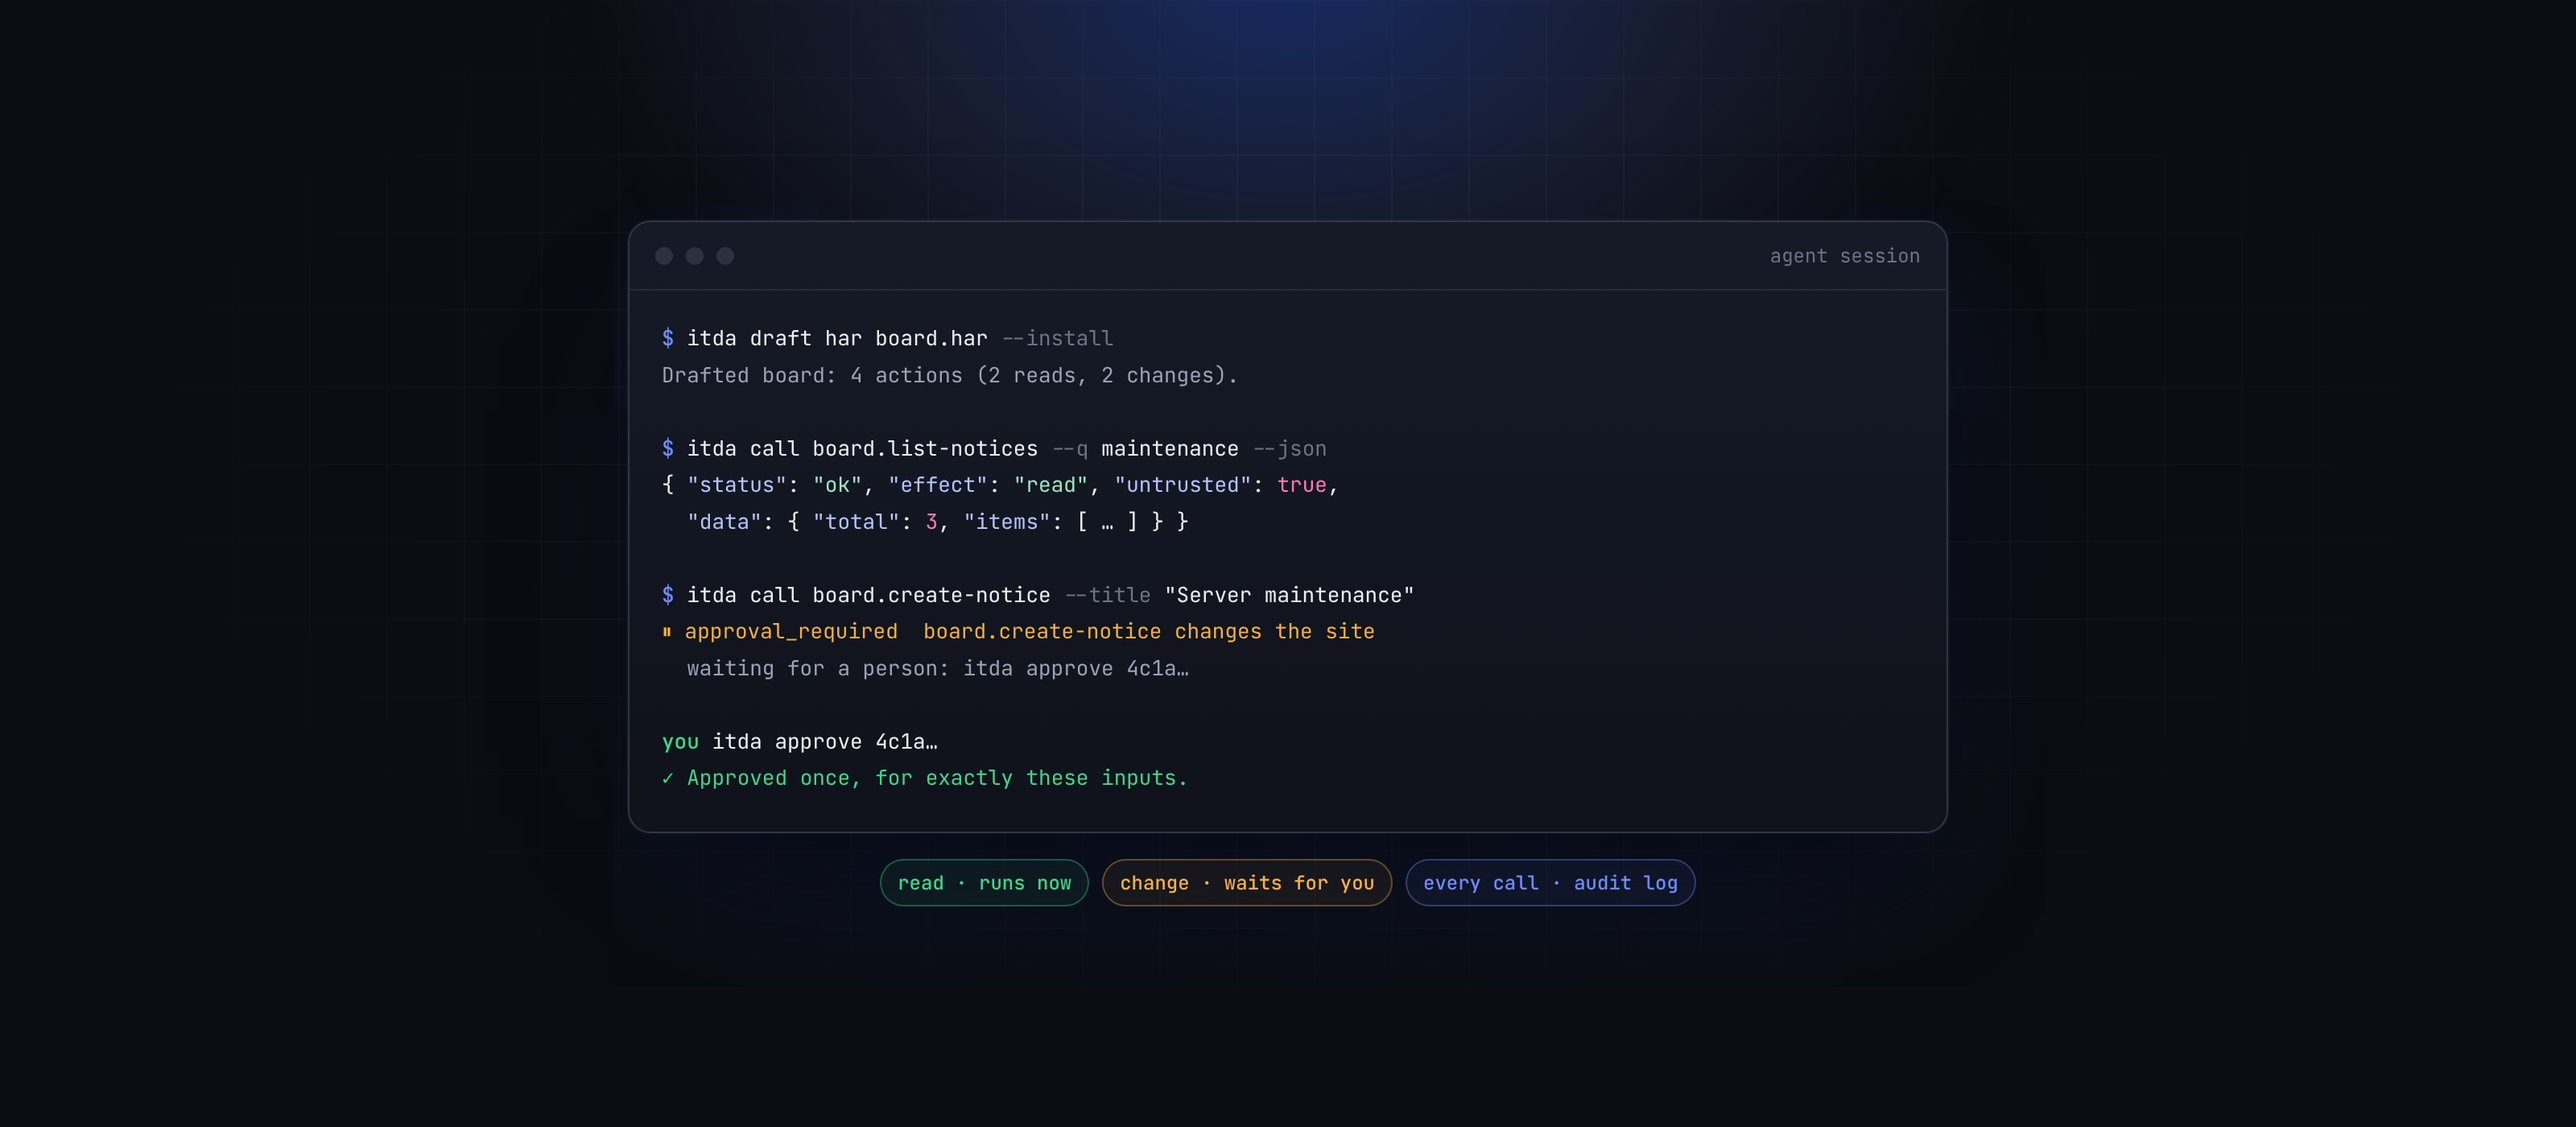
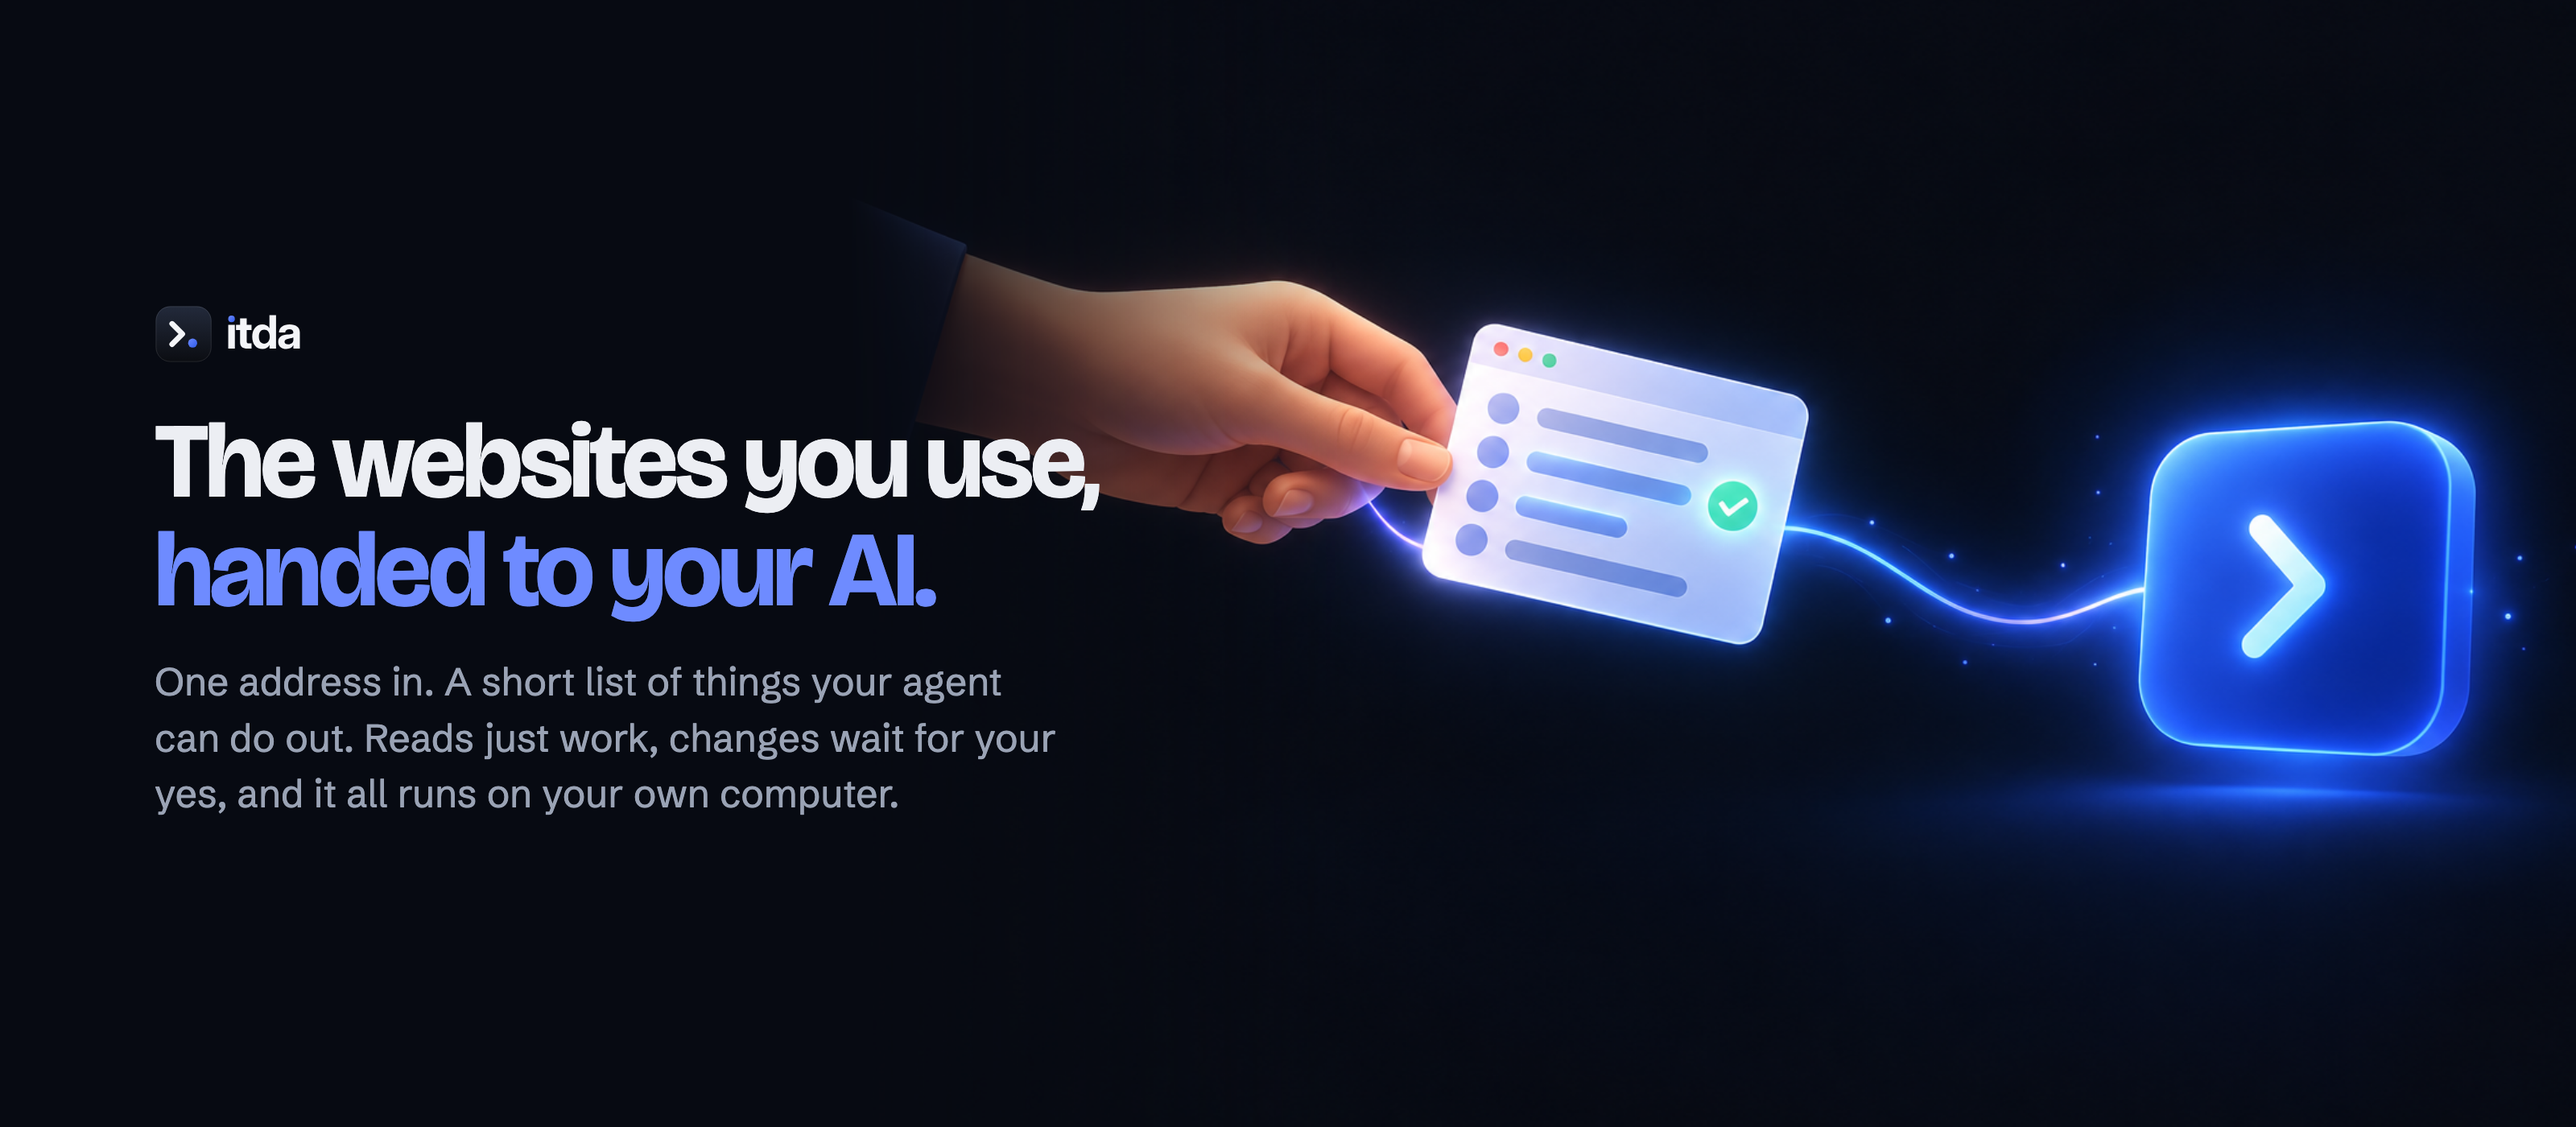
docs: open the README, the docs and the link preview with the handoff key visual

diff --git a/assets/src/banner.html b/assets/src/banner.html
@@ -1,0 +1,75 @@
+<!doctype html>
+<html lang="en">
+<head>
+<meta charset="utf-8">
+<title>itda banner</title>
+<!--
+  Renders assets/social.png, assets/hero.png and assets/hero.ko.png from
+  assets/handoff.png. From the repository root:
+
+    sh assets/src/banner.sh
+
+  ?v=social is 1280x640 (the link preview); ?v=hero is 1600x700, captured at
+  2x; &lang=ko switches the words.
+-->
+<link rel="preconnect" href="https://fonts.googleapis.com">
+<link rel="preconnect" href="https://fonts.gstatic.com" crossorigin>
+<link href="https://fonts.googleapis.com/css2?family=Bricolage+Grotesque:opsz,wght@12..96,700&family=Schibsted+Grotesk:wght@400;500&family=Noto+Sans+KR:wght@400;700&display=swap" rel="stylesheet">
+<style>
+  :root {
+    --ink: #070A12; --text: #ECEEF3; --muted: #9AA3B5; --blue-hi: #6E8BFF;
+    --display: "Bricolage Grotesque", "Noto Sans KR", sans-serif;
+    --sans: "Schibsted Grotesk", "Noto Sans KR", sans-serif;
+  }
+  html, body { margin: 0; background: var(--ink); color: var(--text); font-family: var(--sans); }
+  .frame { position: relative; width: 1280px; height: 640px; overflow: hidden; background: var(--ink); }
+  .frame.hero { width: 1600px; height: 700px; }
+  .glow {
+    position: absolute; width: 1100px; height: 700px; right: -260px; top: -200px;
+    background: radial-gradient(closest-side, rgba(47, 91, 234, .34), rgba(110, 139, 255, .10) 55%, transparent);
+    filter: blur(24px);
+  }
+  .art {
+    position: absolute; right: -70px; top: 50%; transform: translateY(-50%); height: 104%; width: auto;
+    mask-image: linear-gradient(90deg, transparent, #000 28%);
+    -webkit-mask-image: linear-gradient(90deg, transparent, #000 28%);
+  }
+  .hero .art { right: -40px; height: 106%; }
+  .copy { position: absolute; left: 72px; top: 50%; transform: translateY(-50%); width: 500px; }
+  .hero .copy { left: 96px; width: 620px; }
+  .brand { display: flex; align-items: center; gap: 12px; margin-bottom: 28px; }
+  .brand img { height: 36px; }
+  h1 {
+    margin: 0 0 18px; font: 700 56px/1.02 var(--display); letter-spacing: -.035em;
+    font-variation-settings: "opsz" 96;
+  }
+  .hero h1 { font-size: 66px; }
+  html[lang="ko"] h1 { font-size: 52px; letter-spacing: -.03em; line-height: 1.15; word-break: keep-all; }
+  html[lang="ko"] .hero h1 { font-size: 60px; }
+  h1 em { font-style: normal; color: var(--blue-hi); }
+  p { margin: 0; font: 400 21px/1.45 var(--sans); color: var(--muted); max-width: 460px; }
+  .hero p { font-size: 24px; max-width: 560px; }
+  html[lang="ko"] p { word-break: keep-all; }
+</style>
+</head>
+<body>
+<div class="frame" id="frame">
+  <div class="glow"></div>
+  <img class="art" src="../handoff.png" alt="">
+  <div class="copy">
+    <div class="brand"><img src="../wordmark-dark.svg" alt="itda"></div>
+    <h1 id="h1">The websites you use,<br><em>handed to your AI.</em></h1>
+    <p id="p">One address in. A short list of things your agent can do out. Reads just work, changes wait for your yes, and it all runs on your own computer.</p>
+  </div>
+</div>
+<script>
+  const q = new URLSearchParams(location.search);
+  if (q.get("v") === "hero") document.getElementById("frame").classList.add("hero");
+  if (q.get("lang") === "ko") {
+    document.documentElement.lang = "ko";
+    document.getElementById("h1").innerHTML = "내가 쓰는 웹사이트를<br><em>AI에게 넘겨주세요.</em>";
+    document.getElementById("p").textContent = "주소 하나를 넣으면, 에이전트가 할 수 있는 일의 짧은 목록이 나옵니다. 읽기는 알아서 되고, 변경은 내 허락을 기다리고, 전부 내 컴퓨터에서 돌아갑니다.";
+  }
+</script>
+</body>
+</html>

diff --git a/docs/introduction.md b/docs/introduction.md
@@ -1,45 +1,55 @@
 # itda
 
-**Don't drive the browser. Compile the site.**
+**The websites you use, handed to your AI. Safely.**
 
-<img src="https://raw.githubusercontent.com/brnyxx/itda-cli/main/assets/hero.png" alt="itda drafts actions from a browser recording, reads freely, and waits for a person to approve a change" width="100%">
+Give itda one address. It learns what the site can do, tries it, and hands
+your AI agent a short list of actions in plain words. Reads just work.
+Nothing changes on the site until you say yes. It runs on your own computer,
+and it works on the old intranet behind a login too.
 
-itda turns a website into a small set of verified, typed actions that an AI
-agent can call from the command line or over MCP. It runs on your own machine,
-reads by default, and never changes anything on a site until you approve that
-exact change.
+<img src="https://raw.githubusercontent.com/brnyxx/itda-cli/main/assets/setup.gif" alt="itda setup on news.ycombinator.com: it finds a list of 30 records, a form and a feed, tries both reads, saves the site and adds itda to Claude Desktop, in fourteen seconds" width="100%">
 
 ```console
-$ itda call sandbox.list-notices --q 점검
-{
-  "items": [
-    {"author": "운영팀", "date": "2026-10-01", "id": 1, "title": "10월 정기 점검 안내"}
-  ],
-  "total": 1
-}
+$ itda setup https://news.ycombinator.com/
+1/5  Looking at news.ycombinator.com...
+    The page opens without signing in.
+    Found: a list of 30 records, a form, a feed.
+2/5  What agents will be able to do:
+    read   home         List what Hacker News shows  (inputs: p)
+    read   feed         Read the RSS feed
+3/5  Trying every read once...
+    ✓ home         30 records
+    ✓ feed         ok
+4/5  Saved as 'news-ycombinator'.
+5/5  Adding itda to Claude Desktop...
 ```
+
+Then ask your agent: *"use news-ycombinator to list what Hacker News shows"*.
+A site behind a sign-in opens in your own browser instead; you sign in and use
+it as usual while itda watches, and what you type never leaves your computer.
 
 ## Why
 
 Agents that drive a browser re-read every page, spend thousands of tokens on
-each screenshot or accessibility snapshot, follow whatever the page tells
-them, and break silently when a layout changes. itda moves that work to an
-install step. A site definition says which actions exist, what they send, what
-a correct answer looks like and whether they change anything. After that,
-every call is small, typed and checked.
+each screenshot, follow whatever the page tells them, and break silently when
+a layout changes. itda moves that work to a setup step. A site definition says
+which actions exist, what they send, what a correct answer looks like and
+whether they change anything. After that, every call is small, typed and
+checked.
 
-- **Verified.** A signed-out page or a redesigned site is an error
-  (`auth_required`, `response_mismatch`), never data.
+- **Checked.** A signed-out page or a redesigned site comes back as an error
+  with what to do next, never as data.
 - **Read-only by default.** Changes wait for a person to approve the exact
-  request in a terminal. No agent tool can approve.
+  request, in a terminal or in the agent app. No agent tool can approve.
 - **Honest.** itda says who it is, never imitates a browser, and stops when a
   site refuses it.
-- **Accountable.** Every call, approval and change goes into a hash-chained
-  audit log you can verify.
+- **Accountable.** Every call, approval and change goes into a local log
+  where each entry seals the one before it, so edits show.
 - **Local.** No server, account or telemetry. Secrets stay in your OS keyring.
 
 ## Where to go next
 
-- [Quick start](quickstart.md): install and try it on the bundled sandbox.
+- [Quick start](quickstart.md): install, set up a site you use, and try the
+  bundled sandbox.
 - [Use it from an agent](agents.md): connect Claude, Cursor, VS Code or Codex.
-- [Writing a site definition](SPEC.md): add your own site.
+- [Writing a site definition](SPEC.md): add your own site by hand.

diff --git a/CHANGELOG.md b/CHANGELOG.md
@@ -60,6 +60,11 @@ change the definition format or the CLI.
 - The README and the landing page open with a recording of `itda setup` as
   it ran on Hacker News (`assets/setup.gif`, Korean in `assets/setup.ko.gif`,
   rebuilt from `assets/src/setup.*.tape` with vhs).
+- A new key visual, a hand passing a website card to an agent
+  (`assets/handoff.png`), on the README banners and the link preview
+  (`assets/hero.png`, `assets/hero.ko.png`, `assets/social.png`, rendered from
+  `assets/src/banner.html`), and the docs introduction says the same thing the
+  README does.
 
 ## [0.3.0] - 2026-10-20
 

diff --git a/README.ko.md b/README.ko.md
@@ -1,9 +1,4 @@
-<p align="center">
-  <picture>
-    <source media="(prefers-color-scheme: dark)" srcset="assets/wordmark-dark.svg">
-    <img src="assets/wordmark-light.svg" alt="itda" width="240">
-  </picture>
-</p>
+<p align="center"><img src="assets/hero.ko.png" alt="itda: 손이 작은 웹사이트 카드를 한 가닥 실을 따라 AI 에이전트에게 건넵니다. 내가 쓰는 웹사이트를 AI에게 넘겨주세요." width="100%"></p>
 
 <p align="center"><strong>내가 쓰는 웹사이트를 AI에게. 안전하게.</strong></p>
 

diff --git a/README.md b/README.md
@@ -1,9 +1,4 @@
-<p align="center">
-  <picture>
-    <source media="(prefers-color-scheme: dark)" srcset="assets/wordmark-dark.svg">
-    <img src="assets/wordmark-light.svg" alt="itda" width="240">
-  </picture>
-</p>
+<p align="center"><img src="assets/hero.png" alt="itda: a hand passes a small website card to an AI agent along one thread. The websites you use, handed to your AI." width="100%"></p>
 
 <p align="center"><strong>The websites you use, handed to your AI. Safely.</strong></p>
 
